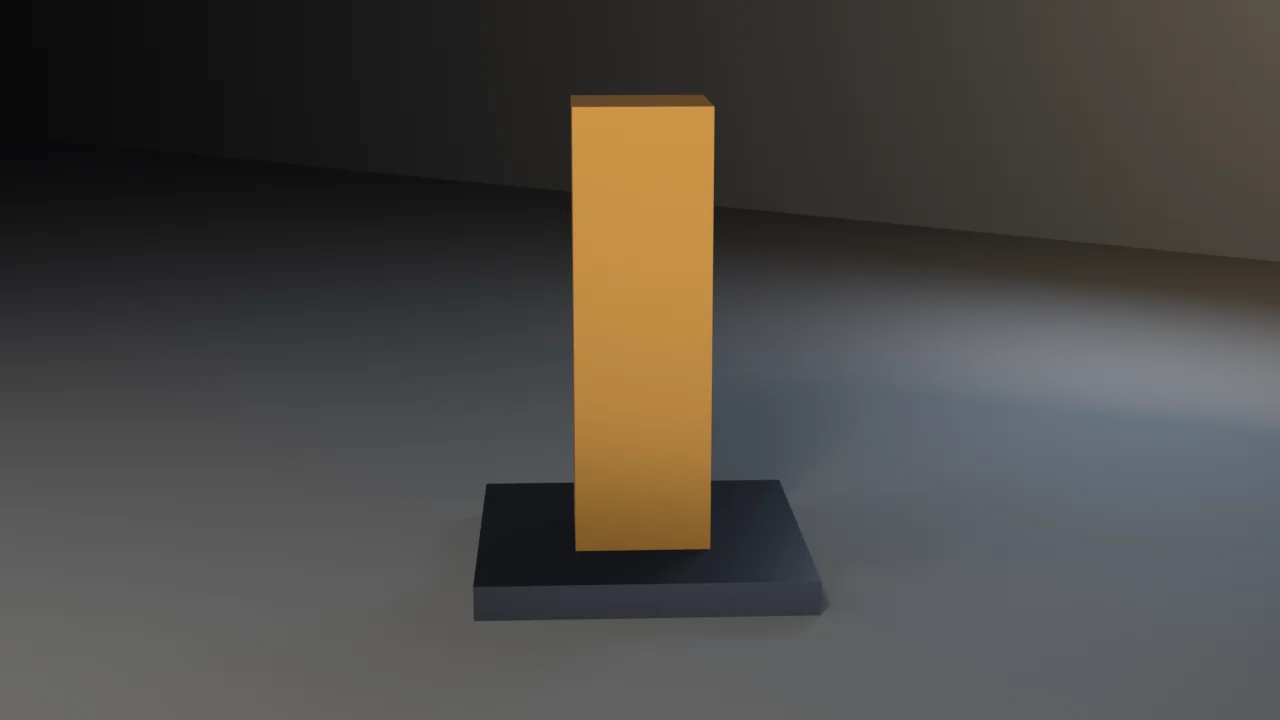
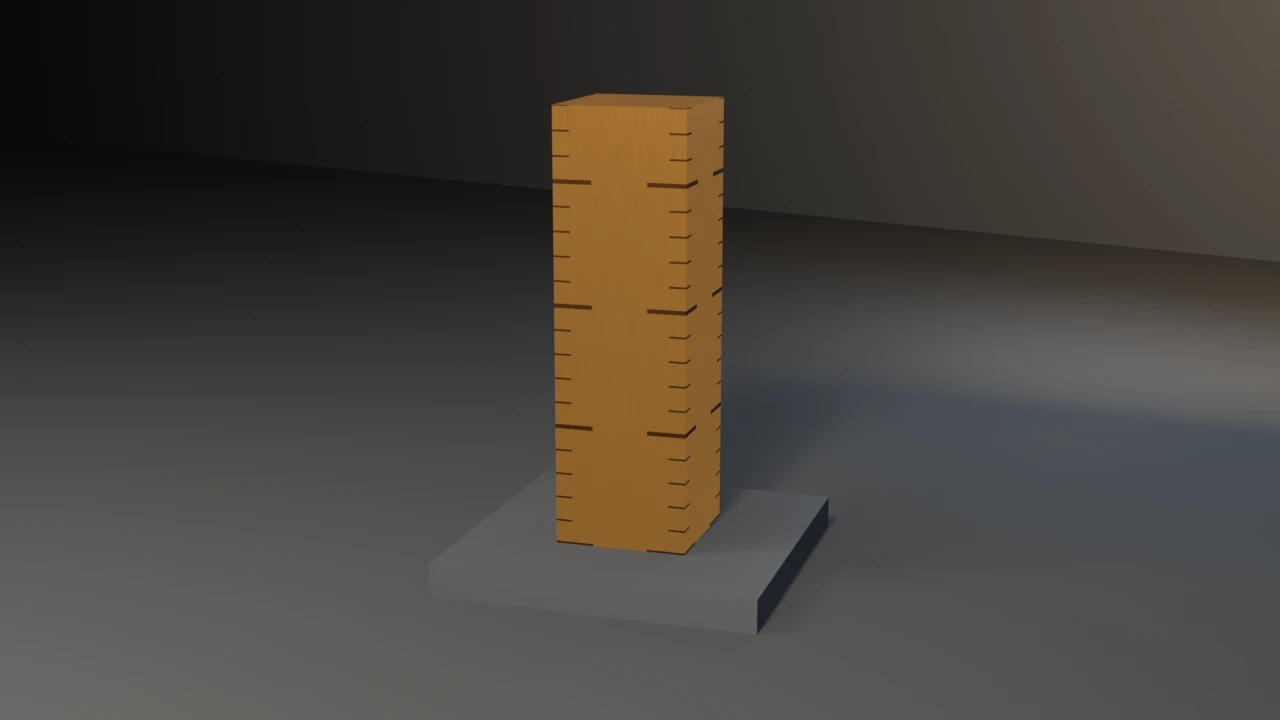
fix(examples): gn-socket-rename renders its Random Value axis
Presentation only; the contract, assertions and exit codes are unchanged. The column shader now draws gauge graduations from the evaluated POINT gauge_h attribute, so an unwired Random Value renders a blank column where before the still looked identical either way. Brushed copper with engraved ticks from each corner, a steel plinth that no longer mirrors the dark stage into a void, the rim light cut so its floor reflection stops lifting the stage, and an 18 degree presentation turn so two faces show.

Changed region(s): [[0.3438, 0.1222, 1.0, 0.8861]]

diff --git a/docs/gallery/gn-socket-rename/index.html b/docs/gallery/gn-socket-rename/index.html
@@ -253,7 +253,7 @@
       <img src="../assets/gn-socket-rename-hero.webp" alt="gn-socket-rename render" width="1280" height="720" />
     </button>
     <p class="zoom-hint">Rendered headless by the example itself — click to zoom.</p>
-    <div class="callout"><span class="tag">witnesses</span> A_INT and Min_001 present on 4.5.11 and 5.1.2, absent on 5.2.1. --legacy-ids exits 5 only on 5.2. Evaluated 16 verts and gauge_h 1.80 on eight column verts</div>
+    <div class="callout"><span class="tag">witnesses</span> A_INT and Min_001 present on 4.5.11 and 5.1.2, absent on 5.2.1. --legacy-ids exits 5 only on 5.2. Evaluated 16 verts and gauge_h 1.80 on eight column verts; the still draws the column graduations from gauge_h, so an unwired Random Value renders a blank column</div>
     <div class="runline">
       <pre id="runCmd">blender --background --python examples/gn-socket-rename/gn_socket_rename.py --</pre>
       <button class="copy-btn" id="copyRun" type="button">Copy</button>
@@ -272,6 +272,8 @@
 blender --background --python gn_socket_rename.py -- --legacy-ids
 blender --background --python gn_socket_rename.py -- --output gauge.png</code></pre>
 <p>The <code>--output</code> render path measures framing against the Layer 1 band via <code>examples/gallery_framing.py</code> (exit 10 on violation) before writing the still.</p>
+<h2>Render</h2>
+<p>The still witnesses both axes, not only the Compare one. The column&#x27;s graduations — a tick every 0.1 m in from each vertical corner, a heavier one every 0.5 m — are drawn by the column shader from the evaluated POINT <code>gauge_h</code> attribute, and only up to its stored height. With Compare broken the column is missing; with Random Value unwired the Store default leaves <code>gauge_h</code> at 0 and the column renders blank copper. Both were rendered to confirm it. The shader is render-path only and nothing in it feeds back into <code>check()</code>; the column is also turned to 18° for the still so two faces show, which <code>check()</code> cannot see because it reads object-space vertices.</p>
 <h2>Exit codes</h2>
 <p>Per-script sequential checks. <code>9</code> is a valid check code; there is no rule against it. <code>10</code> is the shared framing helper.</p>
 <p>| Code | Meaning | | --- | --- | | 0 | Success | | 1 | Uncaught exception (FATAL wrapper) | | 2 | argparse / usage | | 4 | Identifier inventory wrong for this Blender version | | 5 | Pre-5.2 identifier missing (<code>--legacy-ids</code> on 5.2) | | 6 | Enabled-name socket lookup failed | | 7 | Evaluated vert count off (Compare did not switch the column in) | | 8 | Evaluated zmax off closed form | | 9 | POINT <code>gauge_h</code> not 1.80 on eight column verts | | 10 | Gallery framing violation | | 12 | <code>--output</code> produced no file |</p>
@@ -564,8 +566,154 @@ LEGACY_CMP_B = <span class="s">&quot;B_INT&quot;</span>
     <span class="k">return</span> <span class="s">&quot;BLENDER_EEVEE&quot;</span> <span class="k">if</span> bpy.app.version &gt;= (<span class="n">5</span>, <span class="n">0</span>, <span class="n">0</span>) <span class="k">else</span> <span class="s">&quot;BLENDER_EEVEE_NEXT&quot;</span>
 
 
+<span class="c"># Render path only. Graduations are engraved every TICK_MINOR up the column</span>
+<span class="c"># and heavier every TICK_MAJOR, measured from the plinth top.</span>
+TICK_MINOR = <span class="n">0.1</span>
+TICK_MAJOR = <span class="n">0.5</span>
+TICK_MINOR_HALF = <span class="n">0.004</span>
+TICK_MAJOR_HALF = <span class="n">0.009</span>
+<span class="c"># Ticks run in from each vertical corner, like the graduations on a gauge</span>
+<span class="c"># column. Full-width lines stacked the column into planks.</span>
+TICK_MINOR_LEN = <span class="n">0.07</span>
+TICK_MAJOR_LEN = <span class="n">0.16</span>
+
+
+<span class="k">def</span> shader_math(nt, op, *inputs):
+    node = nt.nodes.new(<span class="s">&quot;ShaderNodeMath&quot;</span>)
+    node.operation = op
+    <span class="k">for</span> i, value <span class="k">in</span> enumerate(inputs):
+        <span class="k">if</span> isinstance(value, (int, float)):
+            node.inputs[i].default_value = value
+        <span class="k">else</span>:
+            nt.links.new(value, node.inputs[i])
+    <span class="k">return</span> node.outputs[<span class="n">0</span>]
+
+
+<span class="k">def</span> tick_mask(nt, height, spacing, half_width):
+    <span class="s">&quot;&quot;&quot;1 within half_width of a multiple of spacing, else 0.&quot;&quot;&quot;</span>
+    frac = shader_math(nt, <span class="s">&quot;FRACT&quot;</span>, shader_math(nt, <span class="s">&quot;DIVIDE&quot;</span>, height, spacing))
+    near = shader_math(nt, <span class="s">&quot;MINIMUM&quot;</span>, frac, shader_math(nt, <span class="s">&quot;SUBTRACT&quot;</span>, <span class="n">1.0</span>, frac))
+    <span class="k">return</span> shader_math(
+        nt, <span class="s">&quot;LESS_THAN&quot;</span>, shader_math(nt, <span class="s">&quot;MULTIPLY&quot;</span>, near, spacing), half_width
+    )
+
+
+<span class="k">def</span> dress_gauge(copper, steel):
+    <span class="s">&quot;&quot;&quot;Turn the jo-block into a height gauge, drawn from the witness.
+
+    The graduations read the evaluated POINT ``gauge_h`` attribute, so the
+    render witnesses the Random Value axis as well as the Compare axis: with
+    Random unwired, the Store default leaves ``gauge_h`` at 0 on the column
+    and the column renders blank. Nothing here feeds back into ``check``.
+    &quot;&quot;&quot;</span>
+    nt = copper.node_tree
+    bsdf = nt.nodes[<span class="s">&quot;Principled BSDF&quot;</span>]
+    attr = nt.nodes.new(<span class="s">&quot;ShaderNodeAttribute&quot;</span>)
+    attr.attribute_type = <span class="s">&quot;GEOMETRY&quot;</span>
+    attr.attribute_name = ATTR_NAME
+    coord = nt.nodes.new(<span class="s">&quot;ShaderNodeTexCoord&quot;</span>)
+    sep = nt.nodes.new(<span class="s">&quot;ShaderNodeSeparateXYZ&quot;</span>)
+    nt.links.new(coord.outputs[<span class="s">&quot;Object&quot;</span>], sep.inputs[<span class="s">&quot;Vector&quot;</span>])
+
+    height = shader_math(nt, <span class="s">&quot;SUBTRACT&quot;</span>, sep.outputs[<span class="s">&quot;Z&quot;</span>], PLINTH_SIZE[<span class="n">2</span>])
+    <span class="c"># Distance in from the nearest vertical corner, from the object-space</span>
+    <span class="c"># normal: on a side face one of |nx|, |ny| is 1 and the other 0.</span>
+    onrm = nt.nodes.new(<span class="s">&quot;ShaderNodeSeparateXYZ&quot;</span>)
+    nt.links.new(coord.outputs[<span class="s">&quot;Normal&quot;</span>], onrm.inputs[<span class="s">&quot;Vector&quot;</span>])
+    across = shader_math(
+        nt,
+        <span class="s">&quot;ADD&quot;</span>,
+        shader_math(
+            nt,
+            <span class="s">&quot;MULTIPLY&quot;</span>,
+            shader_math(nt, <span class="s">&quot;ABSOLUTE&quot;</span>, sep.outputs[<span class="s">&quot;X&quot;</span>]),
+            shader_math(nt, <span class="s">&quot;ABSOLUTE&quot;</span>, onrm.outputs[<span class="s">&quot;Y&quot;</span>]),
+        ),
+        shader_math(
+            nt,
+            <span class="s">&quot;MULTIPLY&quot;</span>,
+            shader_math(nt, <span class="s">&quot;ABSOLUTE&quot;</span>, sep.outputs[<span class="s">&quot;Y&quot;</span>]),
+            shader_math(nt, <span class="s">&quot;ABSOLUTE&quot;</span>, onrm.outputs[<span class="s">&quot;X&quot;</span>]),
+        ),
+    )
+    inset = shader_math(nt, <span class="s">&quot;SUBTRACT&quot;</span>, COLUMN_XY / <span class="n">2.0</span>, across)
+    lines = shader_math(
+        nt,
+        <span class="s">&quot;MAXIMUM&quot;</span>,
+        shader_math(
+            nt,
+            <span class="s">&quot;MULTIPLY&quot;</span>,
+            tick_mask(nt, height, TICK_MINOR, TICK_MINOR_HALF),
+            shader_math(nt, <span class="s">&quot;LESS_THAN&quot;</span>, inset, TICK_MINOR_LEN),
+        ),
+        shader_math(
+            nt,
+            <span class="s">&quot;MULTIPLY&quot;</span>,
+            tick_mask(nt, height, TICK_MAJOR, TICK_MAJOR_HALF),
+            shader_math(nt, <span class="s">&quot;LESS_THAN&quot;</span>, inset, TICK_MAJOR_LEN),
+        ),
+    )
+    <span class="c"># Side faces only (the top face sits on a tick by construction), and</span>
+    <span class="c"># only up to the stored gauge height.</span>
+    side = shader_math(
+        nt, <span class="s">&quot;LESS_THAN&quot;</span>, shader_math(nt, <span class="s">&quot;ABSOLUTE&quot;</span>, onrm.outputs[<span class="s">&quot;Z&quot;</span>]), <span class="n">0.5</span>
+    )
+    stored = attr.outputs[<span class="s">&quot;Fac&quot;</span>]
+    within = shader_math(
+        nt, <span class="s">&quot;LESS_THAN&quot;</span>, height, shader_math(nt, <span class="s">&quot;ADD&quot;</span>, stored, <span class="n">0.001</span>)
+    )
+    engraved = shader_math(
+        nt,
+        <span class="s">&quot;MULTIPLY&quot;</span>,
+        shader_math(nt, <span class="s">&quot;MULTIPLY&quot;</span>, lines, side),
+        shader_math(nt, <span class="s">&quot;MULTIPLY&quot;</span>, within, shader_math(nt, <span class="s">&quot;GREATER_THAN&quot;</span>, stored, <span class="n">0.5</span>)),
+    )
+
+    <span class="c"># Brushed along the column: noise squeezed across it, stretched up it.</span>
+    mapping = nt.nodes.new(<span class="s">&quot;ShaderNodeMapping&quot;</span>)
+    mapping.inputs[<span class="s">&quot;Scale&quot;</span>].default_value = (<span class="n">60.0</span>, <span class="n">60.0</span>, <span class="n">1.5</span>)
+    nt.links.new(coord.outputs[<span class="s">&quot;Object&quot;</span>], mapping.inputs[<span class="s">&quot;Vector&quot;</span>])
+    brush = nt.nodes.new(<span class="s">&quot;ShaderNodeTexNoise&quot;</span>)
+    brush.inputs[<span class="s">&quot;Scale&quot;</span>].default_value = <span class="n">4.0</span>
+    brush.inputs[<span class="s">&quot;Detail&quot;</span>].default_value = <span class="n">6.0</span>
+    nt.links.new(mapping.outputs[<span class="s">&quot;Vector&quot;</span>], brush.inputs[<span class="s">&quot;Vector&quot;</span>])
+    rough = shader_math(
+        nt,
+        <span class="s">&quot;MULTIPLY_ADD&quot;</span>,
+        engraved,
+        <span class="n">0.45</span>,
+        shader_math(nt, <span class="s">&quot;MULTIPLY_ADD&quot;</span>, brush.outputs[<span class="s">&quot;Fac&quot;</span>], <span class="n">0.10</span>, <span class="n">0.20</span>),
+    )
+    nt.links.new(rough, bsdf.inputs[<span class="s">&quot;Roughness&quot;</span>])
+
+    base = nt.nodes.new(<span class="s">&quot;ShaderNodeMix&quot;</span>)
+    base.data_type = <span class="s">&quot;RGBA&quot;</span>
+    nt.links.new(engraved, enabled_sock(base, <span class="s">&quot;inputs&quot;</span>, <span class="s">&quot;Factor&quot;</span>))
+    enabled_sock(base, <span class="s">&quot;inputs&quot;</span>, <span class="s">&quot;A&quot;</span>).default_value = (<span class="n">0.93</span>, <span class="n">0.42</span>, <span class="n">0.08</span>, <span class="n">1.0</span>)
+    enabled_sock(base, <span class="s">&quot;inputs&quot;</span>, <span class="s">&quot;B&quot;</span>).default_value = (<span class="n">0.05</span>, <span class="n">0.018</span>, <span class="n">0.006</span>, <span class="n">1.0</span>)
+    nt.links.new(enabled_sock(base, <span class="s">&quot;outputs&quot;</span>, <span class="s">&quot;Result&quot;</span>), bsdf.inputs[<span class="s">&quot;Base Color&quot;</span>])
+    emit = bsdf.inputs.get(<span class="s">&quot;Emission Color&quot;</span>) <span class="k">or</span> bsdf.inputs[<span class="s">&quot;Emission&quot;</span>]
+    nt.links.new(enabled_sock(base, <span class="s">&quot;outputs&quot;</span>, <span class="s">&quot;Result&quot;</span>), emit)
+    <span class="c"># Brushed, the copper reflects less of the key and went brown at</span>
+    <span class="c"># thumbnail size; a little more of its own colour keeps it copper.</span>
+    bsdf.inputs[<span class="s">&quot;Emission Strength&quot;</span>].default_value = <span class="n">0.24</span>
+
+    <span class="c"># Ground steel: lift it off the stage and give it a machined finish.</span>
+    sb = steel.node_tree.nodes[<span class="s">&quot;Principled BSDF&quot;</span>]
+    <span class="c"># Fully metallic at 0.32 it mirrored the dark studio and read as a void.</span>
+    sb.inputs[<span class="s">&quot;Base Color&quot;</span>].default_value = (<span class="n">0.27</span>, <span class="n">0.28</span>, <span class="n">0.31</span>, <span class="n">1.0</span>)
+    sb.inputs[<span class="s">&quot;Metallic&quot;</span>].default_value = <span class="n">0.8</span>
+    sb.inputs[<span class="s">&quot;Roughness&quot;</span>].default_value = <span class="n">0.42</span>
+
+
 <span class="k">def</span> render_still(obj, path, engine):
     scene = bpy.context.scene
+    dress_gauge(bpy.data.materials[<span class="s">&quot;ColumnCopper&quot;</span>], bpy.data.materials[<span class="s">&quot;PlinthSteel&quot;</span>])
+    <span class="c"># Presentation turn. At 38 degrees one column face sat square to the</span>
+    <span class="c"># camera and the gauge read as a flat card; at 18 two faces show and the</span>
+    <span class="c"># corner graduations wrap the edge. check() reads object-space vertices,</span>
+    <span class="c"># so the turn cannot reach an assertion.</span>
+    obj.rotation_euler = (<span class="n">0.0</span>, <span class="n">0.0</span>, math.radians(<span class="n">18</span>))
 
     floor_me = bpy.data.meshes.new(<span class="s">&quot;Floor&quot;</span>)
     bm = bmesh.new()
@@ -610,7 +758,10 @@ LEGACY_CMP_B = <span class="s">&quot;B_INT&quot;</span>
 
     light(<span class="s">&quot;Key&quot;</span>, (-<span class="n">3.4</span>, -<span class="n">4.6</span>, <span class="n">5.4</span>), <span class="n">680.0</span>, <span class="n">4.2</span>, (<span class="n">1.0</span>, <span class="n">0.96</span>, <span class="n">0.9</span>))
     light(<span class="s">&quot;Fill&quot;</span>, (<span class="n">4.8</span>, -<span class="n">3.0</span>, <span class="n">2.2</span>), <span class="n">140.0</span>, <span class="n">8.0</span>, (<span class="n">0.75</span>, <span class="n">0.85</span>, <span class="n">1.0</span>))
-    light(<span class="s">&quot;Rim&quot;</span>, (<span class="n">0.2</span>, <span class="n">5.8</span>, <span class="n">3.4</span>), <span class="n">300.0</span>, <span class="n">3.2</span>, (<span class="n">0.6</span>, <span class="n">0.78</span>, <span class="n">1.0</span>))
+    <span class="c"># At 300 W the rim&#x27;s glossy reflection off the floor lifted the stage</span>
+    <span class="c"># right of the column to mid grey-blue (patch mean 104 against 62 with</span>
+    <span class="c"># the rim off); the column edge still separates at this level.</span>
+    light(<span class="s">&quot;Rim&quot;</span>, (<span class="n">0.2</span>, <span class="n">5.8</span>, <span class="n">3.4</span>), <span class="n">120.0</span>, <span class="n">3.2</span>, (<span class="n">0.6</span>, <span class="n">0.78</span>, <span class="n">1.0</span>))
     light(<span class="s">&quot;Glint&quot;</span>, (<span class="n">1.8</span>, -<span class="n">4.8</span>, <span class="n">5.6</span>), <span class="n">900.0</span>, <span class="n">0.85</span>, (<span class="n">1.0</span>, <span class="n">0.90</span>, <span class="n">0.70</span>))
     wedge = bpy.data.lights.new(<span class="s">&quot;Wedge&quot;</span>, <span class="s">&quot;AREA&quot;</span>)
     wedge.energy = <span class="n">480.0</span>

diff --git a/examples/gn-socket-rename/gn_socket_rename.py b/examples/gn-socket-rename/gn_socket_rename.py
@@ -279,8 +279,154 @@ def eevee_engine_id():
     return "BLENDER_EEVEE" if bpy.app.version >= (5, 0, 0) else "BLENDER_EEVEE_NEXT"
 
 
+# Render path only. Graduations are engraved every TICK_MINOR up the column
+# and heavier every TICK_MAJOR, measured from the plinth top.
+TICK_MINOR = 0.1
+TICK_MAJOR = 0.5
+TICK_MINOR_HALF = 0.004
+TICK_MAJOR_HALF = 0.009
+# Ticks run in from each vertical corner, like the graduations on a gauge
+# column. Full-width lines stacked the column into planks.
+TICK_MINOR_LEN = 0.07
+TICK_MAJOR_LEN = 0.16
+
+
+def shader_math(nt, op, *inputs):
+    node = nt.nodes.new("ShaderNodeMath")
+    node.operation = op
+    for i, value in enumerate(inputs):
+        if isinstance(value, (int, float)):
+            node.inputs[i].default_value = value
+        else:
+            nt.links.new(value, node.inputs[i])
+    return node.outputs[0]
+
+
+def tick_mask(nt, height, spacing, half_width):
+    """1 within half_width of a multiple of spacing, else 0."""
+    frac = shader_math(nt, "FRACT", shader_math(nt, "DIVIDE", height, spacing))
+    near = shader_math(nt, "MINIMUM", frac, shader_math(nt, "SUBTRACT", 1.0, frac))
+    return shader_math(
+        nt, "LESS_THAN", shader_math(nt, "MULTIPLY", near, spacing), half_width
+    )
+
+
+def dress_gauge(copper, steel):
+    """Turn the jo-block into a height gauge, drawn from the witness.
+
+    The graduations read the evaluated POINT ``gauge_h`` attribute, so the
+    render witnesses the Random Value axis as well as the Compare axis: with
+    Random unwired, the Store default leaves ``gauge_h`` at 0 on the column
+    and the column renders blank. Nothing here feeds back into ``check``.
+    """
+    nt = copper.node_tree
+    bsdf = nt.nodes["Principled BSDF"]
+    attr = nt.nodes.new("ShaderNodeAttribute")
+    attr.attribute_type = "GEOMETRY"
+    attr.attribute_name = ATTR_NAME
+    coord = nt.nodes.new("ShaderNodeTexCoord")
+    sep = nt.nodes.new("ShaderNodeSeparateXYZ")
+    nt.links.new(coord.outputs["Object"], sep.inputs["Vector"])
+
+    height = shader_math(nt, "SUBTRACT", sep.outputs["Z"], PLINTH_SIZE[2])
+    # Distance in from the nearest vertical corner, from the object-space
+    # normal: on a side face one of |nx|, |ny| is 1 and the other 0.
+    onrm = nt.nodes.new("ShaderNodeSeparateXYZ")
+    nt.links.new(coord.outputs["Normal"], onrm.inputs["Vector"])
+    across = shader_math(
+        nt,
+        "ADD",
+        shader_math(
+            nt,
+            "MULTIPLY",
+            shader_math(nt, "ABSOLUTE", sep.outputs["X"]),
+            shader_math(nt, "ABSOLUTE", onrm.outputs["Y"]),
+        ),
+        shader_math(
+            nt,
+            "MULTIPLY",
+            shader_math(nt, "ABSOLUTE", sep.outputs["Y"]),
+            shader_math(nt, "ABSOLUTE", onrm.outputs["X"]),
+        ),
+    )
+    inset = shader_math(nt, "SUBTRACT", COLUMN_XY / 2.0, across)
+    lines = shader_math(
+        nt,
+        "MAXIMUM",
+        shader_math(
+            nt,
+            "MULTIPLY",
+            tick_mask(nt, height, TICK_MINOR, TICK_MINOR_HALF),
+            shader_math(nt, "LESS_THAN", inset, TICK_MINOR_LEN),
+        ),
+        shader_math(
+            nt,
+            "MULTIPLY",
+            tick_mask(nt, height, TICK_MAJOR, TICK_MAJOR_HALF),
+            shader_math(nt, "LESS_THAN", inset, TICK_MAJOR_LEN),
+        ),
+    )
+    # Side faces only (the top face sits on a tick by construction), and
+    # only up to the stored gauge height.
+    side = shader_math(
+        nt, "LESS_THAN", shader_math(nt, "ABSOLUTE", onrm.outputs["Z"]), 0.5
+    )
+    stored = attr.outputs["Fac"]
+    within = shader_math(
+        nt, "LESS_THAN", height, shader_math(nt, "ADD", stored, 0.001)
+    )
+    engraved = shader_math(
+        nt,
+        "MULTIPLY",
+        shader_math(nt, "MULTIPLY", lines, side),
+        shader_math(nt, "MULTIPLY", within, shader_math(nt, "GREATER_THAN", stored, 0.5)),
+    )
+
+    # Brushed along the column: noise squeezed across it, stretched up it.
+    mapping = nt.nodes.new("ShaderNodeMapping")
+    mapping.inputs["Scale"].default_value = (60.0, 60.0, 1.5)
+    nt.links.new(coord.outputs["Object"], mapping.inputs["Vector"])
+    brush = nt.nodes.new("ShaderNodeTexNoise")
+    brush.inputs["Scale"].default_value = 4.0
+    brush.inputs["Detail"].default_value = 6.0
+    nt.links.new(mapping.outputs["Vector"], brush.inputs["Vector"])
+    rough = shader_math(
+        nt,
+        "MULTIPLY_ADD",
+        engraved,
+        0.45,
+        shader_math(nt, "MULTIPLY_ADD", brush.outputs["Fac"], 0.10, 0.20),
+    )
+    nt.links.new(rough, bsdf.inputs["Roughness"])
+
+    base = nt.nodes.new("ShaderNodeMix")
+    base.data_type = "RGBA"
+    nt.links.new(engraved, enabled_sock(base, "inputs", "Factor"))
+    enabled_sock(base, "inputs", "A").default_value = (0.93, 0.42, 0.08, 1.0)
+    enabled_sock(base, "inputs", "B").default_value = (0.05, 0.018, 0.006, 1.0)
+    nt.links.new(enabled_sock(base, "outputs", "Result"), bsdf.inputs["Base Color"])
+    emit = bsdf.inputs.get("Emission Color") or bsdf.inputs["Emission"]
+    nt.links.new(enabled_sock(base, "outputs", "Result"), emit)
+    # Brushed, the copper reflects less of the key and went brown at
+    # thumbnail size; a little more of its own colour keeps it copper.
+    bsdf.inputs["Emission Strength"].default_value = 0.24
+
+    # Ground steel: lift it off the stage and give it a machined finish.
+    sb = steel.node_tree.nodes["Principled BSDF"]
+    # Fully metallic at 0.32 it mirrored the dark studio and read as a void.
+    sb.inputs["Base Color"].default_value = (0.27, 0.28, 0.31, 1.0)
+    sb.inputs["Metallic"].default_value = 0.8
+    sb.inputs["Roughness"].default_value = 0.42
+
+
 def render_still(obj, path, engine):
     scene = bpy.context.scene
+    dress_gauge(bpy.data.materials["ColumnCopper"], bpy.data.materials["PlinthSteel"])
+    # Presentation turn. At 38 degrees one column face sat square to the
+    # camera and the gauge read as a flat card; at 18 two faces show and the
+    # corner graduations wrap the edge. check() reads object-space vertices,
+    # so the turn cannot reach an assertion.
+    obj.rotation_euler = (0.0, 0.0, math.radians(18))
 
     floor_me = bpy.data.meshes.new("Floor")
     bm = bmesh.new()
@@ -325,7 +471,10 @@ def render_still(obj, path, engine):
 
     light("Key", (-3.4, -4.6, 5.4), 680.0, 4.2, (1.0, 0.96, 0.9))
     light("Fill", (4.8, -3.0, 2.2), 140.0, 8.0, (0.75, 0.85, 1.0))
-    light("Rim", (0.2, 5.8, 3.4), 300.0, 3.2, (0.6, 0.78, 1.0))
+    # At 300 W the rim's glossy reflection off the floor lifted the stage
+    # right of the column to mid grey-blue (patch mean 104 against 62 with
+    # the rim off); the column edge still separates at this level.
+    light("Rim", (0.2, 5.8, 3.4), 120.0, 3.2, (0.6, 0.78, 1.0))
     light("Glint", (1.8, -4.8, 5.6), 900.0, 0.85, (1.0, 0.90, 0.70))
     wedge = bpy.data.lights.new("Wedge", "AREA")
     wedge.energy = 480.0

diff --git a/examples/gn-socket-rename/README.md b/examples/gn-socket-rename/README.md
@@ -52,6 +52,19 @@ The `--output` render path measures framing against the Layer 1 band via
 `examples/gallery_framing.py` (exit 10 on violation) before writing the
 still.
 
+## Render
+
+The still witnesses both axes, not only the Compare one. The column's
+graduations — a tick every 0.1 m in from each vertical corner, a heavier
+one every 0.5 m — are drawn by the column shader from the evaluated
+POINT `gauge_h` attribute, and only up to its stored height. With
+Compare broken the column is missing; with Random Value unwired the
+Store default leaves `gauge_h` at 0 and the column renders blank copper.
+Both were rendered to confirm it. The shader is render-path only and
+nothing in it feeds back into `check()`; the column is also turned to
+18° for the still so two faces show, which `check()` cannot see because
+it reads object-space vertices.
+
 ## Exit codes
 
 Per-script sequential checks. `9` is a valid check code; there is no rule

diff --git a/README.md b/README.md
@@ -592,7 +592,7 @@ passthrough.
 </tr>
 <tr>
 <td width="46%" valign="middle">
-<a href="examples/gn-socket-rename/"><img src="examples/gn-socket-rename/preview.webp" alt="GN socket rename: a copper jo-block column on a steel plinth in a dark studio, the column switched in by Compare and tagged by Random Value, warm wedge on the back wall" /></a>
+<a href="examples/gn-socket-rename/"><img src="examples/gn-socket-rename/preview.webp" alt="GN socket rename: a brushed copper gauge column on a steel plinth in a dark studio, graduated every 0.1 m from its stored gauge_h attribute, warm wedge on the back wall" /></a>
 </td>
 <td valign="middle">
 
